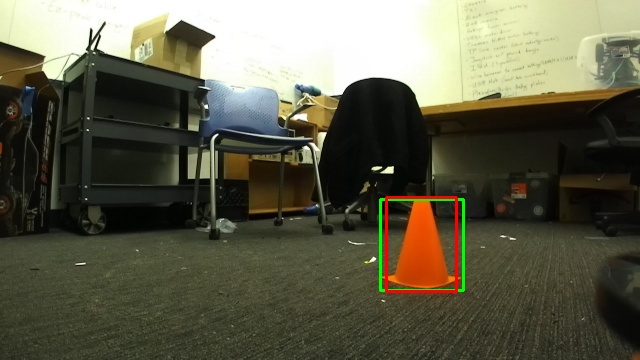
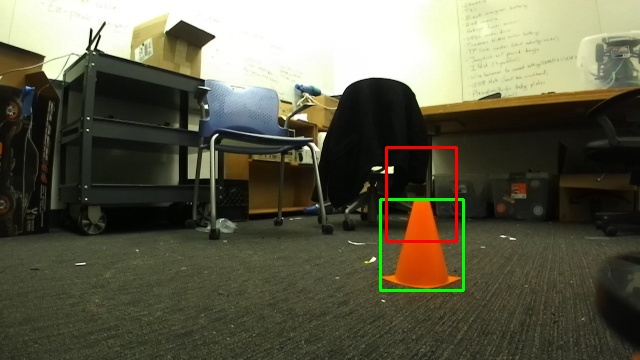
line follower ?

Changed region(s): [[0.5938, 0.6417, 0.7188, 0.825], [0.5938, 0.3972, 0.7188, 0.5806]]

diff --git a/visual_servoing/visual_servoing/computer_vision/color_segmentation.py b/visual_servoing/visual_servoing/computer_vision/color_segmentation.py
@@ -59,11 +59,14 @@ def cd_color_segmentation(img, template):
 
 	# returns list of contours and hiearchy, retr ignores inside countours, approx is for compression
 	contours, _ = cv2.findContours(mask, cv2.RETR_EXTERNAL, cv2.CHAIN_APPROX_SIMPLE)
+
+	# lookahead = 50
 	# should only be one if its just cone
 	if len(contours) != 0:
 		biggest_contour = max(contours, key = cv2.contourArea)
 		x, y, w, h = cv2.boundingRect(biggest_contour)
 		bounding_box = ((x, y), (x + w, y + h))
+		# bounding_box = ((x, y - lookahead), (x + w, y + h - lookahead))
 	else:
 		print("Cone not found.")
 
